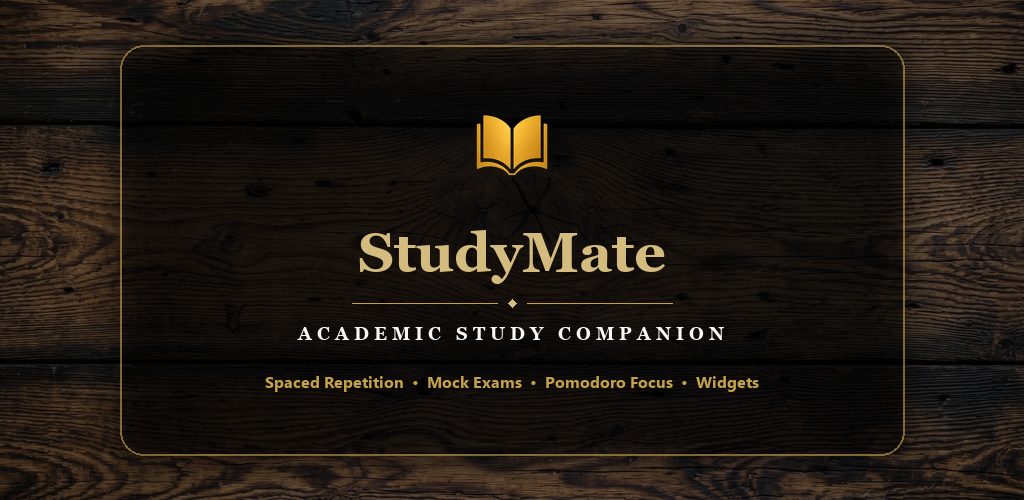
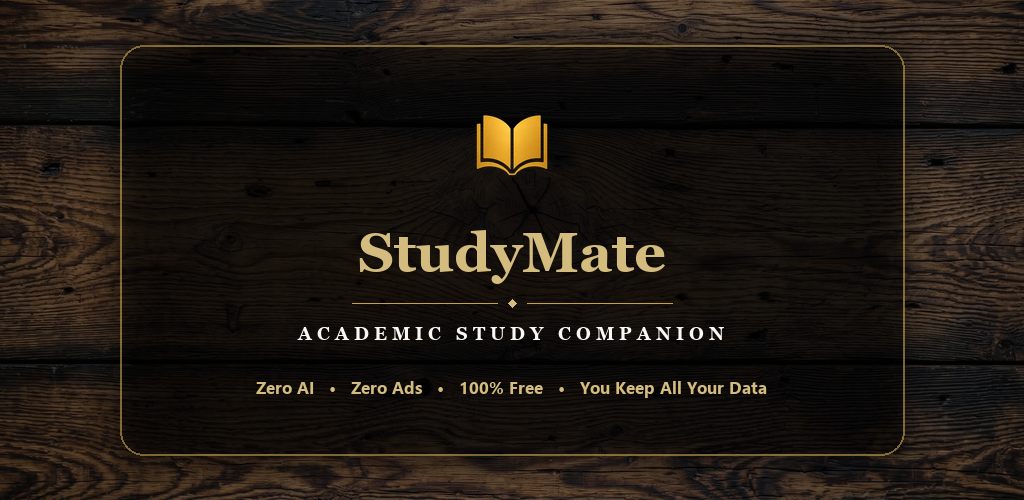
docs(store): update feature graphic tagline and add store listing guide

Changed region(s): [[0.25, 0.75, 0.75, 0.81]]

diff --git a/app/src/androidTest/java/uws/ac/uk/studymate/ExportLogoTest.kt b/app/src/androidTest/java/uws/ac/uk/studymate/ExportLogoTest.kt
@@ -1,0 +1,38 @@
+package uws.ac.uk.studymate
+
+import android.graphics.Bitmap
+import android.graphics.Canvas
+import androidx.core.content.ContextCompat
+import androidx.test.core.app.ApplicationProvider
+import androidx.test.ext.junit.runners.AndroidJUnit4
+import org.junit.Test
+import org.junit.runner.RunWith
+import java.io.File
+import java.io.FileOutputStream
+import android.graphics.PorterDuff
+import android.graphics.PorterDuffColorFilter
+
+@RunWith(AndroidJUnit4::class)
+class ExportLogoTest {
+    @Test
+    fun exportLogo() {
+        val context = ApplicationProvider.getApplicationContext<android.content.Context>()
+        val drawable = ContextCompat.getDrawable(context, R.drawable.ic_studymate_logo)!!
+        
+        // Color it gold #C4A24A
+        drawable.colorFilter = PorterDuffColorFilter(0xFFC4A24A.toInt(), PorterDuff.Mode.SRC_IN)
+        
+        val size = 512
+        val bitmap = Bitmap.createBitmap(size, size, Bitmap.Config.ARGB_8888)
+        val canvas = Canvas(bitmap)
+        drawable.setBounds(0, 0, size, size)
+        drawable.draw(canvas)
+        
+        val dir = File("/sdcard/Download")
+        if (!dir.exists()) dir.mkdirs()
+        val file = File(dir, "logo_gold.png")
+        FileOutputStream(file).use { out ->
+            bitmap.compress(Bitmap.CompressFormat.PNG, 100, out)
+        }
+    }
+}

diff --git a/scripts/generate_clean_feature_graphic.py b/scripts/generate_clean_feature_graphic.py
@@ -91,11 +91,12 @@ s_bbox = draw.textbbox((0, 0), sub_text, font=font_sub)
 s_w = s_bbox[2] - s_bbox[0]
 draw.text(((1024 - s_w) // 2, card_margin_y + 278), sub_text, font=font_sub, fill=(250, 248, 245)) # #FAF8F5
 
-# Minimal feature bar
-features_text = "Spaced Repetition  •  Mock Exams  •  Pomodoro Focus  •  Widgets"
-f_bbox = draw.textbbox((0, 0), features_text, font=font_features)
+# Minimal feature bar: Zero AI, Zero Ads, 100% Free, You Keep All Your Data
+font_tagline = ImageFont.truetype('C:/Windows/Fonts/segoeuib.ttf', 17)
+features_text = "Zero AI   •   Zero Ads   •   100% Free   •   You Keep All Your Data"
+f_bbox = draw.textbbox((0, 0), features_text, font=font_tagline)
 f_w = f_bbox[2] - f_bbox[0]
-draw.text(((1024 - f_w) // 2, card_margin_y + 325), features_text, font=font_features, fill=(196, 162, 74)) # #C4A24A
+draw.text(((1024 - f_w) // 2, card_margin_y + 330), features_text, font=font_tagline, fill=(212, 188, 126)) # #D4BC7E gold accent
 
 bg.save(out_path, 'PNG')
 print(f"Generated transparent glass Feature Graphic at: {out_path} ({bg.size})")

diff --git a/art/play-store/STORE_LISTING.md b/art/play-store/STORE_LISTING.md
@@ -1,0 +1,76 @@
+# StudyMate — Google Play Store Listing Copy
+
+## App Details
+- **App Name**: `StudyMate`
+- **Category**: Education
+- **Tags**: Study, Flashcards, Pomodoro, Education, Planner
+
+---
+
+## Descriptions
+
+### Short Description (53 / 80 characters)
+```text
+Zero AI. Zero Ads. 100% Free. You keep all your data.
+```
+
+### Full Description (Markdown/Plain Text for Console)
+```text
+✨ ZERO AI. ZERO ADS. 100% FREE. COMPLETE PRIVACY. ✨
+
+StudyMate is your personal academic companion, designed to streamline your daily workflow, maximize memory retention, and keep you focused. Built with a refined dark-academic aesthetic, StudyMate runs 100% offline—keeping your notes, assignments, and study data strictly private on your device.
+
+Key Features:
+
+📚 Spaced Repetition Flashcards & Mock Exams
+• Smart Leitner spaced repetition flashcards for efficient long-term memory retention
+• Mock Exam Simulator: test your knowledge under realistic conditions
+• Import & export flashcard decks via CSV to share with peers
+
+⏱ Pomodoro Focus Timer
+• Customizable study and break intervals with smooth visual cues
+• Haptic vibration alerts and gold screen bloom on phase transitions
+• Stay in the zone with zero distractions or intrusive notifications
+
+📅 Assignments & Schedule Tracker
+• Track upcoming assignments, homework, and deadlines with custom priorities
+• Dedicated checklist views with quick status toggles
+• Home screen calendar widgets (including tall 2x3 month view) for instant at-a-glance planning
+
+🏆 Trophy Room & Statistics
+• Celebrate academic milestones with unlockable achievements
+• Review study streaks, session counts, and progress metrics
+
+🔒 100% Offline & Private
+• No cloud logins, no tracking, and no external data collection. Your data stays entirely on your phone.
+```
+
+---
+
+## Graphical Assets Location
+
+All required graphics are located in `art/play-store/`:
+
+1. **App Icon** (512x512 PNG):
+   - Path: `art/play-store/app_icon_512.png`
+
+2. **Feature Graphic / Cover Banner** (1024x500 PNG):
+   - Path: `art/play-store/feature_graphic_1024x500.png`
+   - Features: Dark walnut background, frosted glass card, golden book logo, and tagline:
+     *"Zero AI • Zero Ads • 100% Free • You Keep All Your Data"*
+
+3. **Phone Screenshots** (16:9 vertical high-resolution captures):
+   - `art/play-store/screenshot_1_home.png` (Dashboard & Quick Stats)
+   - `art/play-store/screenshot_2_focustimer.png` (Pomodoro Focus Timer)
+   - `art/play-store/screenshot_3_flashcards.png` (Spaced Repetition Decks)
+   - `art/play-store/screenshot_4_calendar.png` (Academic Calendar)
+   - `art/play-store/screenshot_5_trophies.png` (Trophy Room & Milestones)
+   - `art/play-store/screenshot_6_assignments.png` (Task & Assignment Manager)
+
+---
+
+## Production App Bundle (.aab)
+- Path: `app/build/outputs/bundle/release/app-release.aab`
+- Version Code: `4`
+- Version Name: `1.2.0`
+- Target SDK: `API 36` (Android 16 compliant)
